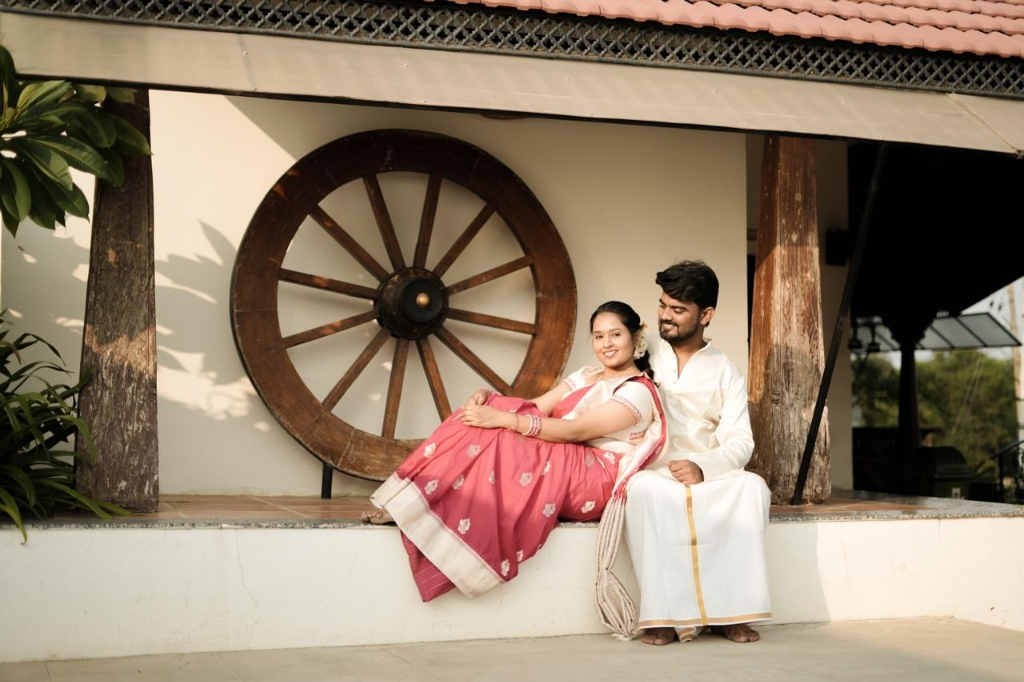
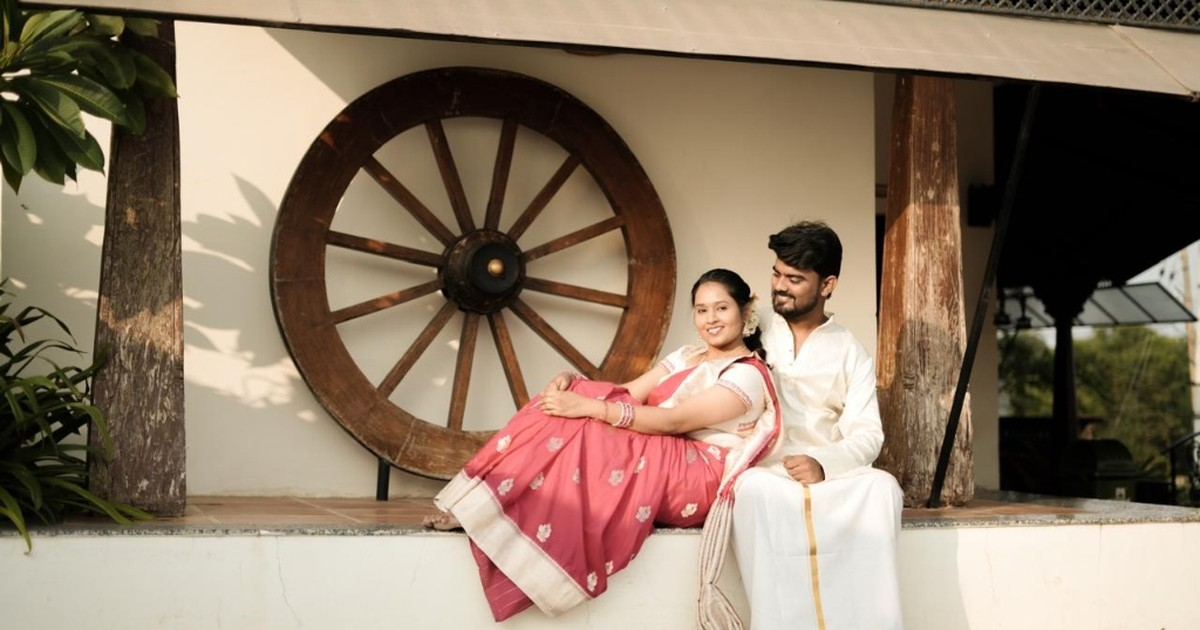
.

diff --git a/index.html b/index.html
@@ -10,7 +10,7 @@
     <meta name="title" content="Arjun &amp; Lavanya — Wedding Invitation" />
     <meta
       name="description"
-      content="Together with their families, Arjun &amp; Lavanya cordially invite you to celebrate their wedding on 13 November 2026 at Shri Laxmi Ranganatha Kalyana Mantapa, Devadurga, Raichur."
+      content="Together with their families, Arjun &amp; Lavanya cordially invite you to celebrate their wedding on Friday, 13 November 2026 at 10:05 AM at Shri Laxmi Ranganatha Kalyana Mantapa, Devadurga, Raichur."
     />
 
     <!-- Open Graph / Facebook / WhatsApp -->
@@ -20,13 +20,13 @@
     <meta property="og:title" content="Arjun &amp; Lavanya — Wedding Invitation" />
     <meta
       property="og:description"
-      content="Together with their families, Arjun &amp; Lavanya cordially invite you to celebrate their wedding on 13 November 2026 at Shri Laxmi Ranganatha Kalyana Mantapa, Devadurga, Raichur."
+      content="Together with their families, Arjun &amp; Lavanya cordially invite you to celebrate their wedding on Friday, 13 November 2026 at 10:05 AM at Shri Laxmi Ranganatha Kalyana Mantapa, Devadurga, Raichur."
     />
-    <meta property="og:image" content="https://arjun-lavanya.inviteby.top/images/cover-photo.jpg" />
-    <meta property="og:image:secure_url" content="https://arjun-lavanya.inviteby.top/images/cover-photo.jpg" />
+    <meta property="og:image" content="https://arjun-lavanya.inviteby.top/og-image.jpg" />
+    <meta property="og:image:secure_url" content="https://arjun-lavanya.inviteby.top/og-image.jpg" />
     <meta property="og:image:type" content="image/jpeg" />
-    <meta property="og:image:width" content="1024" />
-    <meta property="og:image:height" content="682" />
+    <meta property="og:image:width" content="1200" />
+    <meta property="og:image:height" content="630" />
     <meta property="og:image:alt" content="Arjun &amp; Lavanya Wedding Invitation" />
 
     <!-- Twitter -->
@@ -35,9 +35,9 @@
     <meta name="twitter:title" content="Arjun &amp; Lavanya — Wedding Invitation" />
     <meta
       name="twitter:description"
-      content="Together with their families, Arjun &amp; Lavanya cordially invite you to celebrate their wedding on 13 November 2026 at Shri Laxmi Ranganatha Kalyana Mantapa, Devadurga, Raichur."
+      content="Together with their families, Arjun &amp; Lavanya cordially invite you to celebrate their wedding on Friday, 13 November 2026 at 10:05 AM at Shri Laxmi Ranganatha Kalyana Mantapa, Devadurga, Raichur."
     />
-    <meta name="twitter:image" content="https://arjun-lavanya.inviteby.top/images/cover-photo.jpg" />
+    <meta name="twitter:image" content="https://arjun-lavanya.inviteby.top/og-image.jpg" />
 
     <!-- Theme Color for Mobile Browsers -->
     <meta name="theme-color" content="#123d2e" />

diff --git a/src/routes/index.tsx b/src/routes/index.tsx
@@ -12,8 +12,8 @@ import { MusicPlayer } from "@/components/wedding/MusicPlayer";
 import { wedding } from "@/components/wedding/data";
 
 const title = `${wedding.groom.name} & ${wedding.bride.name} — Wedding Invitation`;
-const description = `Together with their families, ${wedding.groom.name} & ${wedding.bride.name} cordially invite you to celebrate their wedding on 13 November 2026 at ${wedding.venue.name}, ${wedding.venue.address}.`;
-const ogImage = "https://arjun-lavanya.inviteby.top/images/cover-photo.jpg";
+const description = `Together with their families, ${wedding.groom.name} & ${wedding.bride.name} cordially invite you to celebrate their wedding on Friday, 13 November 2026 at 10:05 AM at ${wedding.venue.name}, ${wedding.venue.address}.`;
+const ogImage = "https://arjun-lavanya.inviteby.top/og-image.jpg";
 
 export const Route = createFileRoute("/")({
   head: () => ({
@@ -26,8 +26,8 @@ export const Route = createFileRoute("/")({
       { property: "og:description", content: description },
       { property: "og:image", content: ogImage },
       { property: "og:image:secure_url", content: ogImage },
-      { property: "og:image:width", content: "1024" },
-      { property: "og:image:height", content: "682" },
+      { property: "og:image:width", content: "1200" },
+      { property: "og:image:height", content: "630" },
       { property: "og:url", content: "https://arjun-lavanya.inviteby.top/" },
       { name: "twitter:card", content: "summary_large_image" },
       { name: "twitter:title", content: title },

diff --git a/src/components/wedding/data.ts b/src/components/wedding/data.ts
@@ -24,11 +24,11 @@ export const wedding = {
   audioSrc: "/audio/music.mp4",
 
   // Primary wedding date (13 November 2026) for countdown
-  dateISO: "2026-11-13T10:00:00+05:30",
+  dateISO: "2026-11-13T10:05:00+05:30",
   endISO: "2026-11-13T14:00:00+05:30",
   dateLabel: "Friday, 13 November 2026",
-  timeLabel: "Morning onwards",
-  muhurthamLabel: "Sumuhurtham",
+  timeLabel: "10:05 AM onwards",
+  muhurthamLabel: "Sumuhurtham: 10:05 AM",
   venue: {
     name: "Shri Laxmi Ranganatha Kalyana Mantapa",
     address: "Devadurga Tq, Raichur Dist, Karnataka",
@@ -44,9 +44,9 @@ export const wedding = {
       day: "13",
       monthYear: "November 2026",
       dateLabel: "Friday, 13 November 2026",
-      timeLabel: "Morning onwards",
-      muhurthamLabel: "Sumuhurtham",
-      dateISO: "2026-11-13T10:00:00+05:30",
+      timeLabel: "10:05 AM onwards",
+      muhurthamLabel: "Sumuhurtham: 10:05 AM",
+      dateISO: "2026-11-13T10:05:00+05:30",
       endISO: "2026-11-13T14:00:00+05:30",
       venue: {
         name: "Shri Laxmi Ranganatha Kalyana Mantapa",
